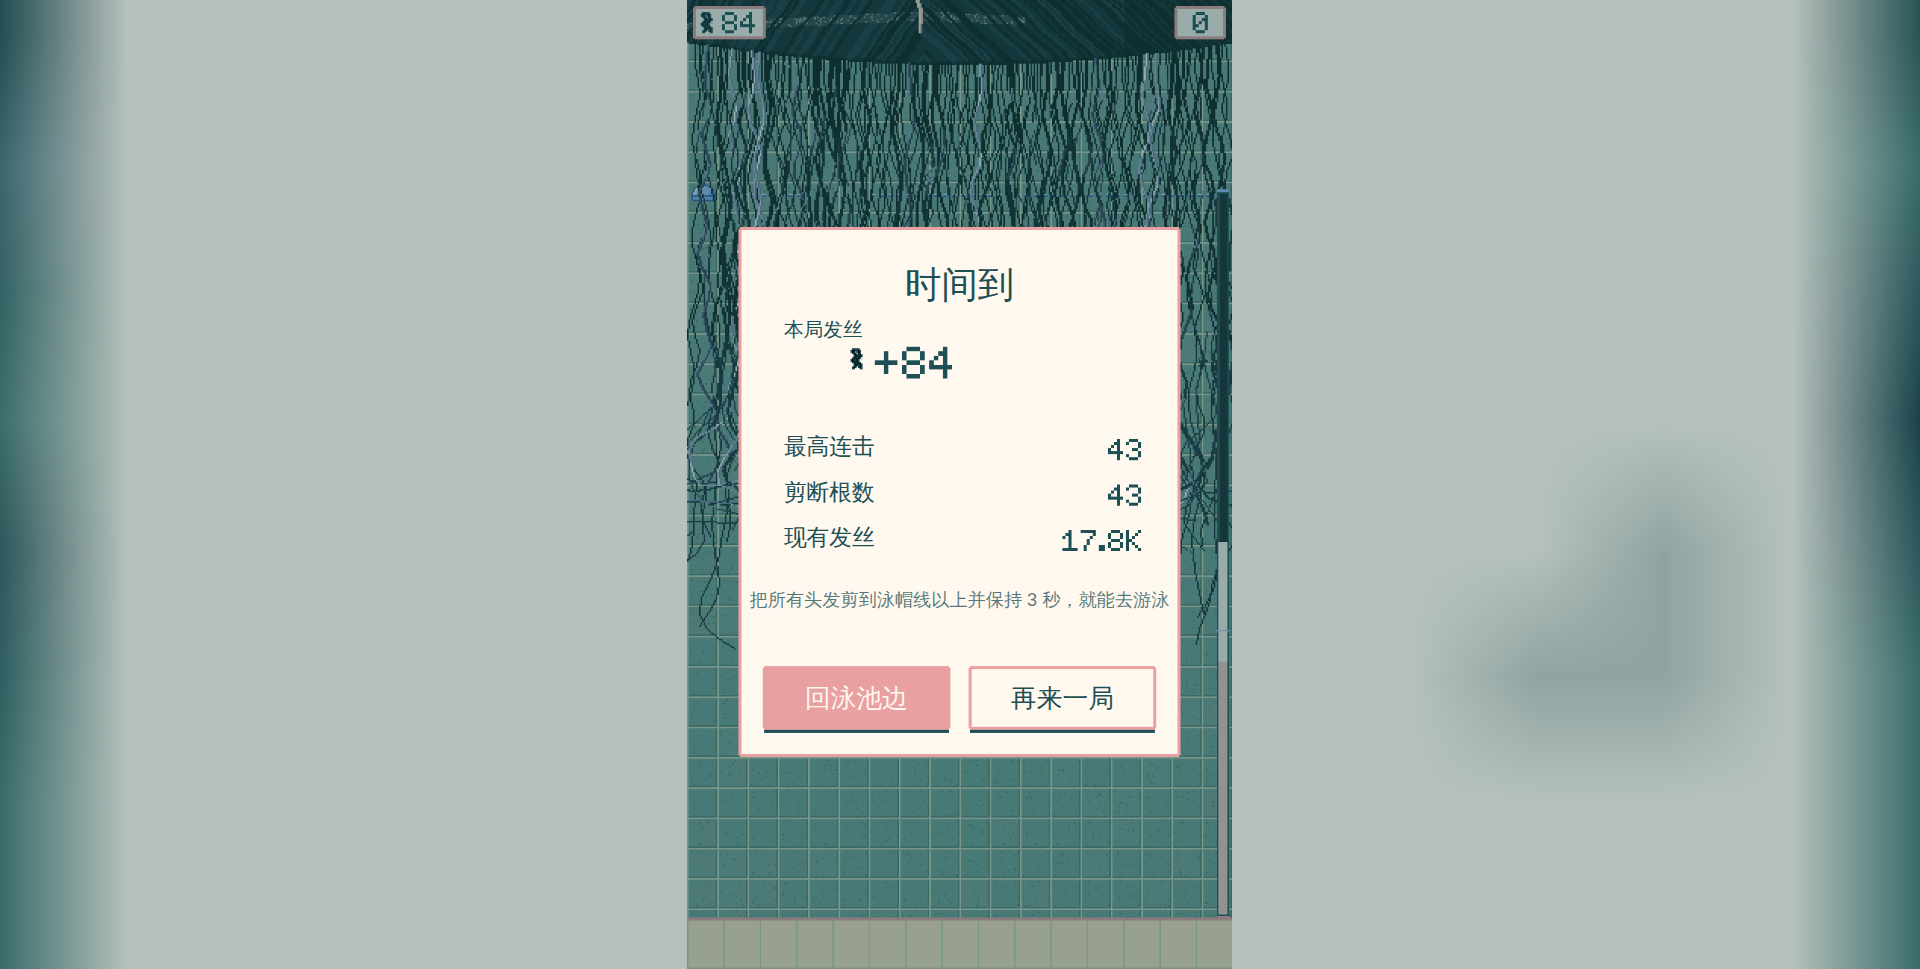
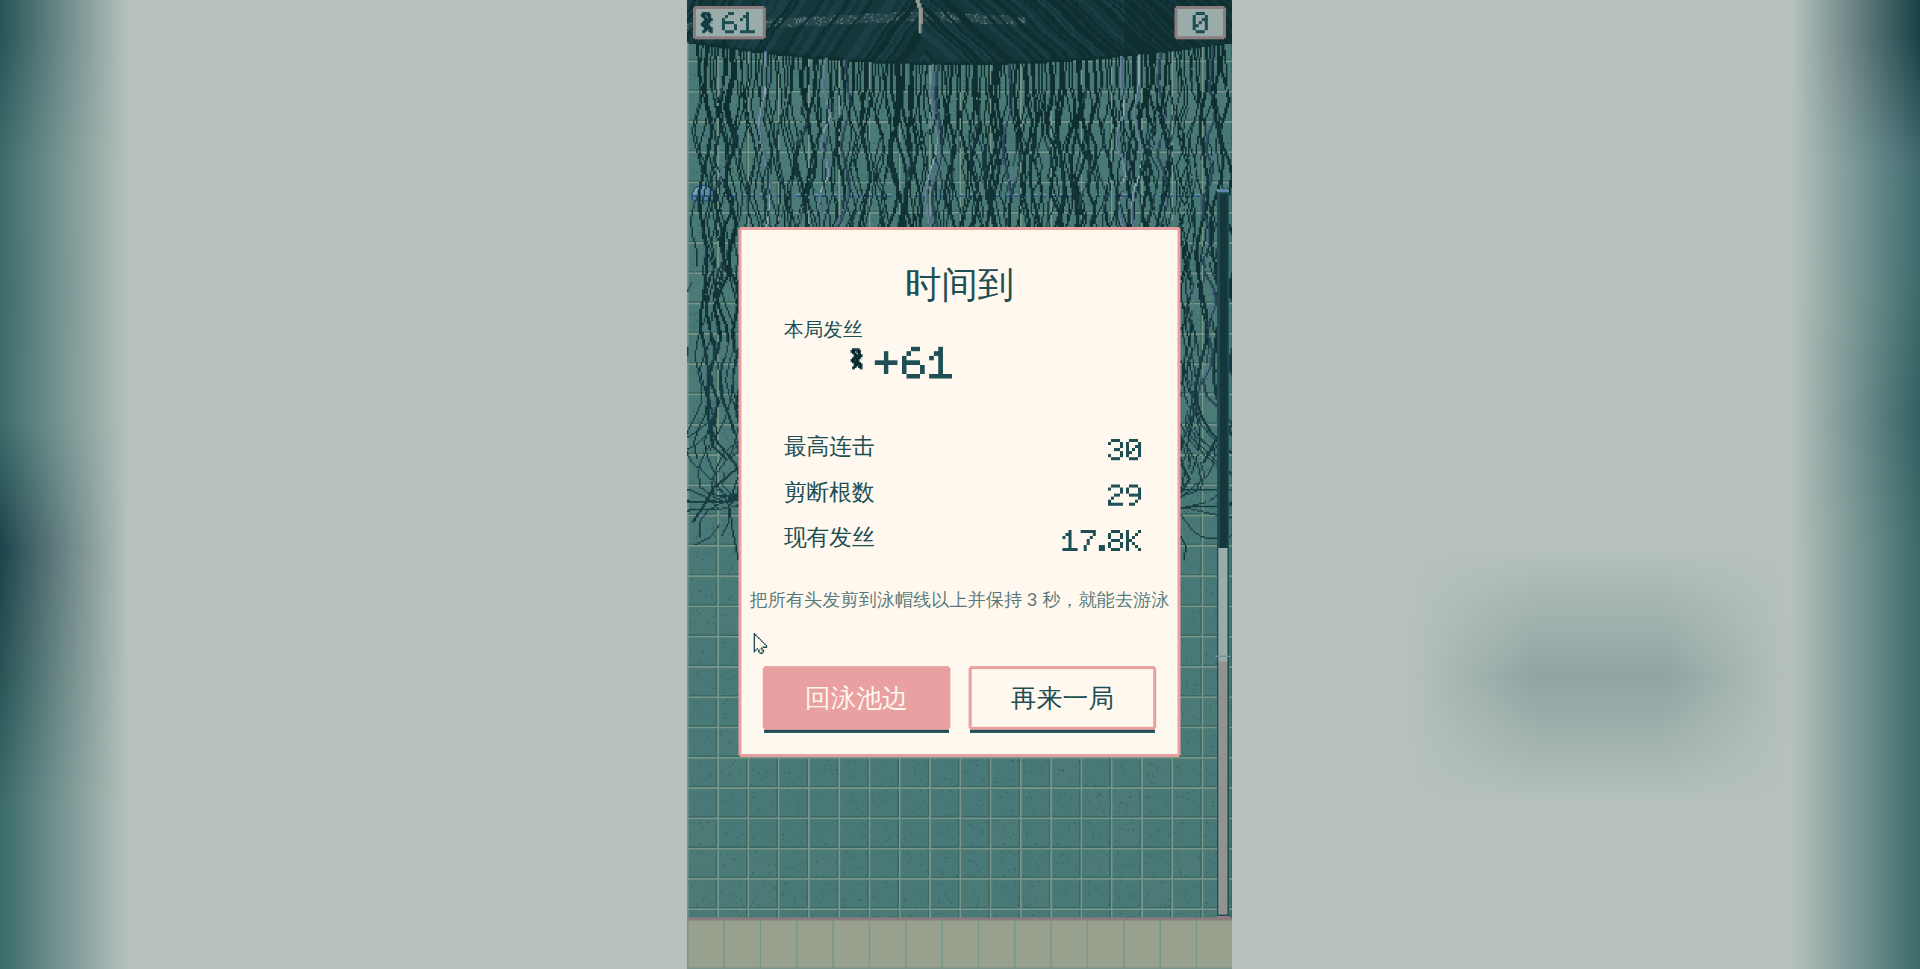
修复：主界面看不到鼠标指针，改为游戏自己画的像素指针
- 平时箭头，悬停可点物件 / 按钮时变手指；剪发时剪刀就是指针
- 场景通过 cursor() 决定指针样式，触屏不画

Claude-Session: https://claude.ai/code/session_01NodEAxG8q1DZAeDM9noboF

diff --git a/src/art/cursor.ts b/src/art/cursor.ts
@@ -1,0 +1,62 @@
+// 游戏自己的鼠标指针（画面上 cursor: none，系统指针看不到）：
+// arrow 普通箭头、hand 可点击时的手指。深青描边 + 奶白填充，左上受光。
+// 剪发时剪刀本身就是指针，场景返回 null 就不画。
+
+import { SCENE } from './palette'
+
+export type CursorKind = 'arrow' | 'hand'
+
+const ARROW = [
+  '#.........',
+  '##........',
+  '#1#.......',
+  '#11#......',
+  '#111#.....',
+  '#1111#....',
+  '#11111#...',
+  '#111111#..',
+  '#1111111#.',
+  '#11112###.',
+  '#1#12#....',
+  '##.#12#...',
+  '#..#12#...',
+  '....##....',
+]
+
+const HAND = [
+  '....##.......',
+  '...#11#......',
+  '...#11#......',
+  '...#11#......',
+  '...#11###....',
+  '...#11#11##..',
+  '.###11#11#1#.',
+  '#11#1111111#.',
+  '#111111111#..',
+  '.#11111112#..',
+  '..#1111112#..',
+  '..#111112#...',
+  '...#11112#...',
+  '...######....',
+]
+
+function draw(ctx: CanvasRenderingContext2D, shape: readonly string[], x: number, y: number): void {
+  const col: Record<string, string> = { '#': SCENE.ui.text, '1': SCENE.ui.panel, '2': SCENE.floor[2] }
+  for (let j = 0; j < shape.length; j++) {
+    const row = shape[j]!
+    for (let i = 0; i < row.length; i++) {
+      const c = col[row[i]!]
+      if (!c) continue
+      ctx.fillStyle = c
+      ctx.fillRect(x + i, y + j, 1, 1)
+    }
+  }
+}
+
+/** (x, y) 是指针尖的位置（逻辑像素）。 */
+export function drawCursor(ctx: CanvasRenderingContext2D, kind: CursorKind, x: number, y: number): void {
+  const px = Math.round(x)
+  const py = Math.round(y)
+  if (kind === 'hand') draw(ctx, HAND, px - 4, py)
+  else draw(ctx, ARROW, px, py)
+}

diff --git a/src/main.ts b/src/main.ts
@@ -8,6 +8,7 @@ import { FixedLoop } from './core/loop'
 import { PerfStats } from './core/perf'
 import { loadGame, startAutosave, save } from './core/save'
 import { loadSpriteFiles } from './art/sprites'
+import { drawCursor } from './art/cursor'
 import { loadFonts } from './art/text'
 import { allText } from './data/strings'
 import { sfx } from './audio/sfx'
@@ -57,6 +58,12 @@ async function boot(): Promise<void> {
     (alpha, frameDt) => {
       const t0 = performance.now()
       scenes.render(alpha, screen.lctx)
+      // 自己画的鼠标指针（只在用鼠标时；触屏不需要）
+      const kind = scenes.current?.cursor ? scenes.current.cursor() : 'arrow'
+      if (kind && input.seen && input.pointerType === 'mouse' && !scenes.transitioning) {
+        screen.lctx.setTransform(1, 0, 0, 1, 0, 0)
+        drawCursor(screen.lctx, kind, input.x, input.y)
+      }
       screen.present()
       scenes.overlay(screen.overlay(), alpha)
       screen.tickBackdrop(frameDt)

diff --git a/src/scenes/cut.ts b/src/scenes/cut.ts
@@ -896,6 +896,14 @@ export class CutScene implements Scene {
     }
   }
 
+  /** 剪发时剪刀就是指针；弹出面板、结算时画普通指针。 */
+  cursor(): 'arrow' | 'hand' | null {
+    if (this.phase === 'play' || this.phase === 'ready') return null
+    const x = this.game.input.x
+    const y = this.game.input.y
+    return this.buttons.some((b) => x >= b.x && x <= b.x + b.w && y >= b.y && y <= b.y + b.h) ? 'hand' : 'arrow'
+  }
+
   // ---------------------------------------------------------------- 调试
 
   stats(): Record<string, number | string> {

diff --git a/src/core/scene.ts b/src/core/scene.ts
@@ -13,6 +13,8 @@ export interface Scene {
   render(alpha: number): void
   /** 高清层（中文字等），坐标仍是逻辑像素 */
   overlay?(ctx: CanvasRenderingContext2D, alpha: number): void
+  /** 这一帧要画哪种鼠标指针；null = 不画（比如剪发时剪刀就是指针）。不实现就画普通箭头。 */
+  cursor?(): 'arrow' | 'hand' | null
 }
 
 const BAYER = [0, 8, 2, 10, 12, 4, 14, 6, 3, 11, 1, 9, 15, 7, 13, 5]

diff --git a/src/scenes/hub.ts b/src/scenes/hub.ts
@@ -326,6 +326,10 @@ export class HubScene implements Scene {
     this.dialog?.overlay(ctx)
   }
 
+  cursor(): 'arrow' | 'hand' {
+    return this.hover && !this.dialog && !this.tree.isOpen ? 'hand' : 'arrow'
+  }
+
   // ---------------------------------------------------------------- 调试
 
   stats(): Record<string, number | string> {
